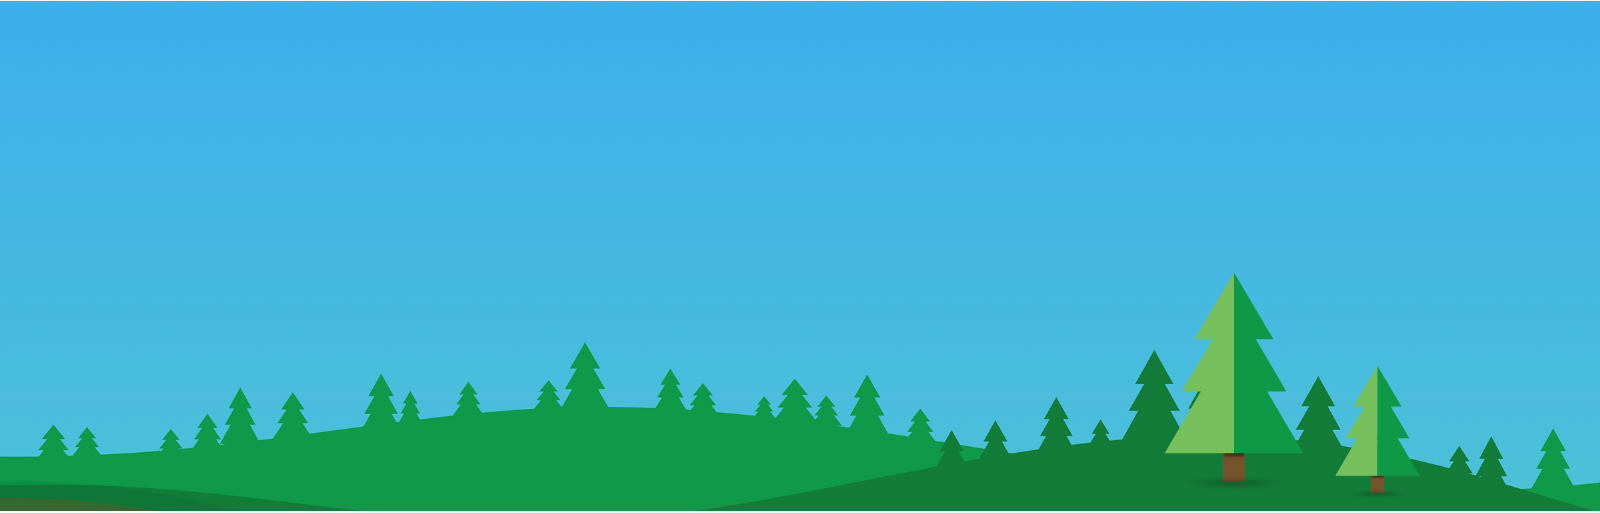
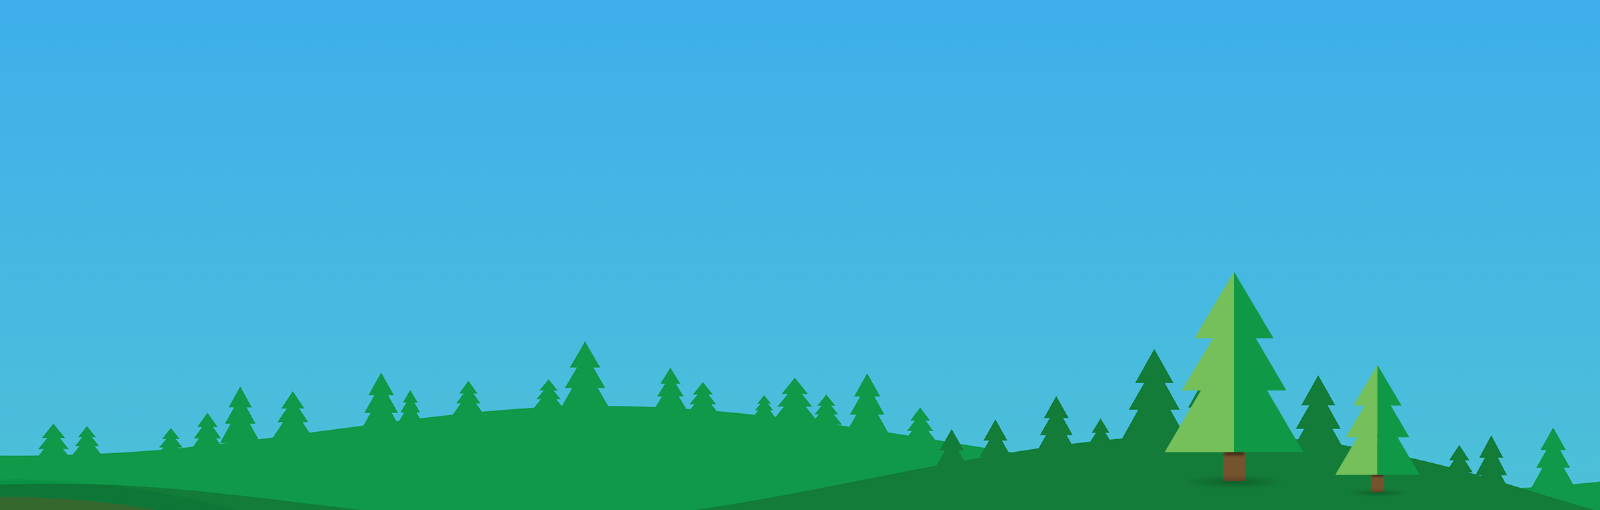
ui cleanup

diff --git a/style.css b/style.css
@@ -82,15 +82,20 @@ a:hover {
   color: #ffffff;
 }
 
+p > a {
+  text-decoration: underline;
+}
+
 .top {
    background-image: url(assets/images/top_background.png);
    background-size: contain;
    width: 100%;
    height: 0;
    background-repeat: no-repeat;
-   padding-bottom: 32.12%;
+   padding-bottom: 31.9%;
    padding-left: 320px;
    padding-right: 320px;
+   margin-top: 1px;
    color: #ffffff;
    font-size: 18px;
 }
@@ -106,19 +111,19 @@ main {
 main > div {
   background-image: url(assets/images/zig_zag.png);
   background-repeat: no-repeat;
-  background-size: 100%;
-  background-position-y: 200px;
+  background-size: 100% 380px;
+  background-position-y: 100px;
 }
 
 main > div > div {
   padding-left: 320px;
   padding-right: 200px;
-  padding-top: 150px;
+  padding-top: 50px;
   padding-bottom: 50px;
 }
 
 main > div > div > div {
-  padding-top: 20px;
+  padding-top: 10px;
 }
 
 main ul > li,

diff --git a/index.html b/index.html
@@ -38,7 +38,7 @@
 
     <div class="top">
       <p>Salesforce uses and contributes to tons of Open Source.  We're committed to not just consume Open Source, but to contribute back our modifications to Open Source projects.  We'll also Open Source infrastructure and tools which are necessary, but indirect to our business, like we've done with <a href="https://github.com/salesforce/argus">Argus</a> - a time-series database.</p>
-      <p>Learn more about Open Source at Salesforce below...</p>
+      <p>Learn more about Open Source at Salesforce below or on our <a href="https://medium.com/salesforce-engineering/tagged/open-source">engineering blog</a>.</p>
     </div>
 
     <main>
